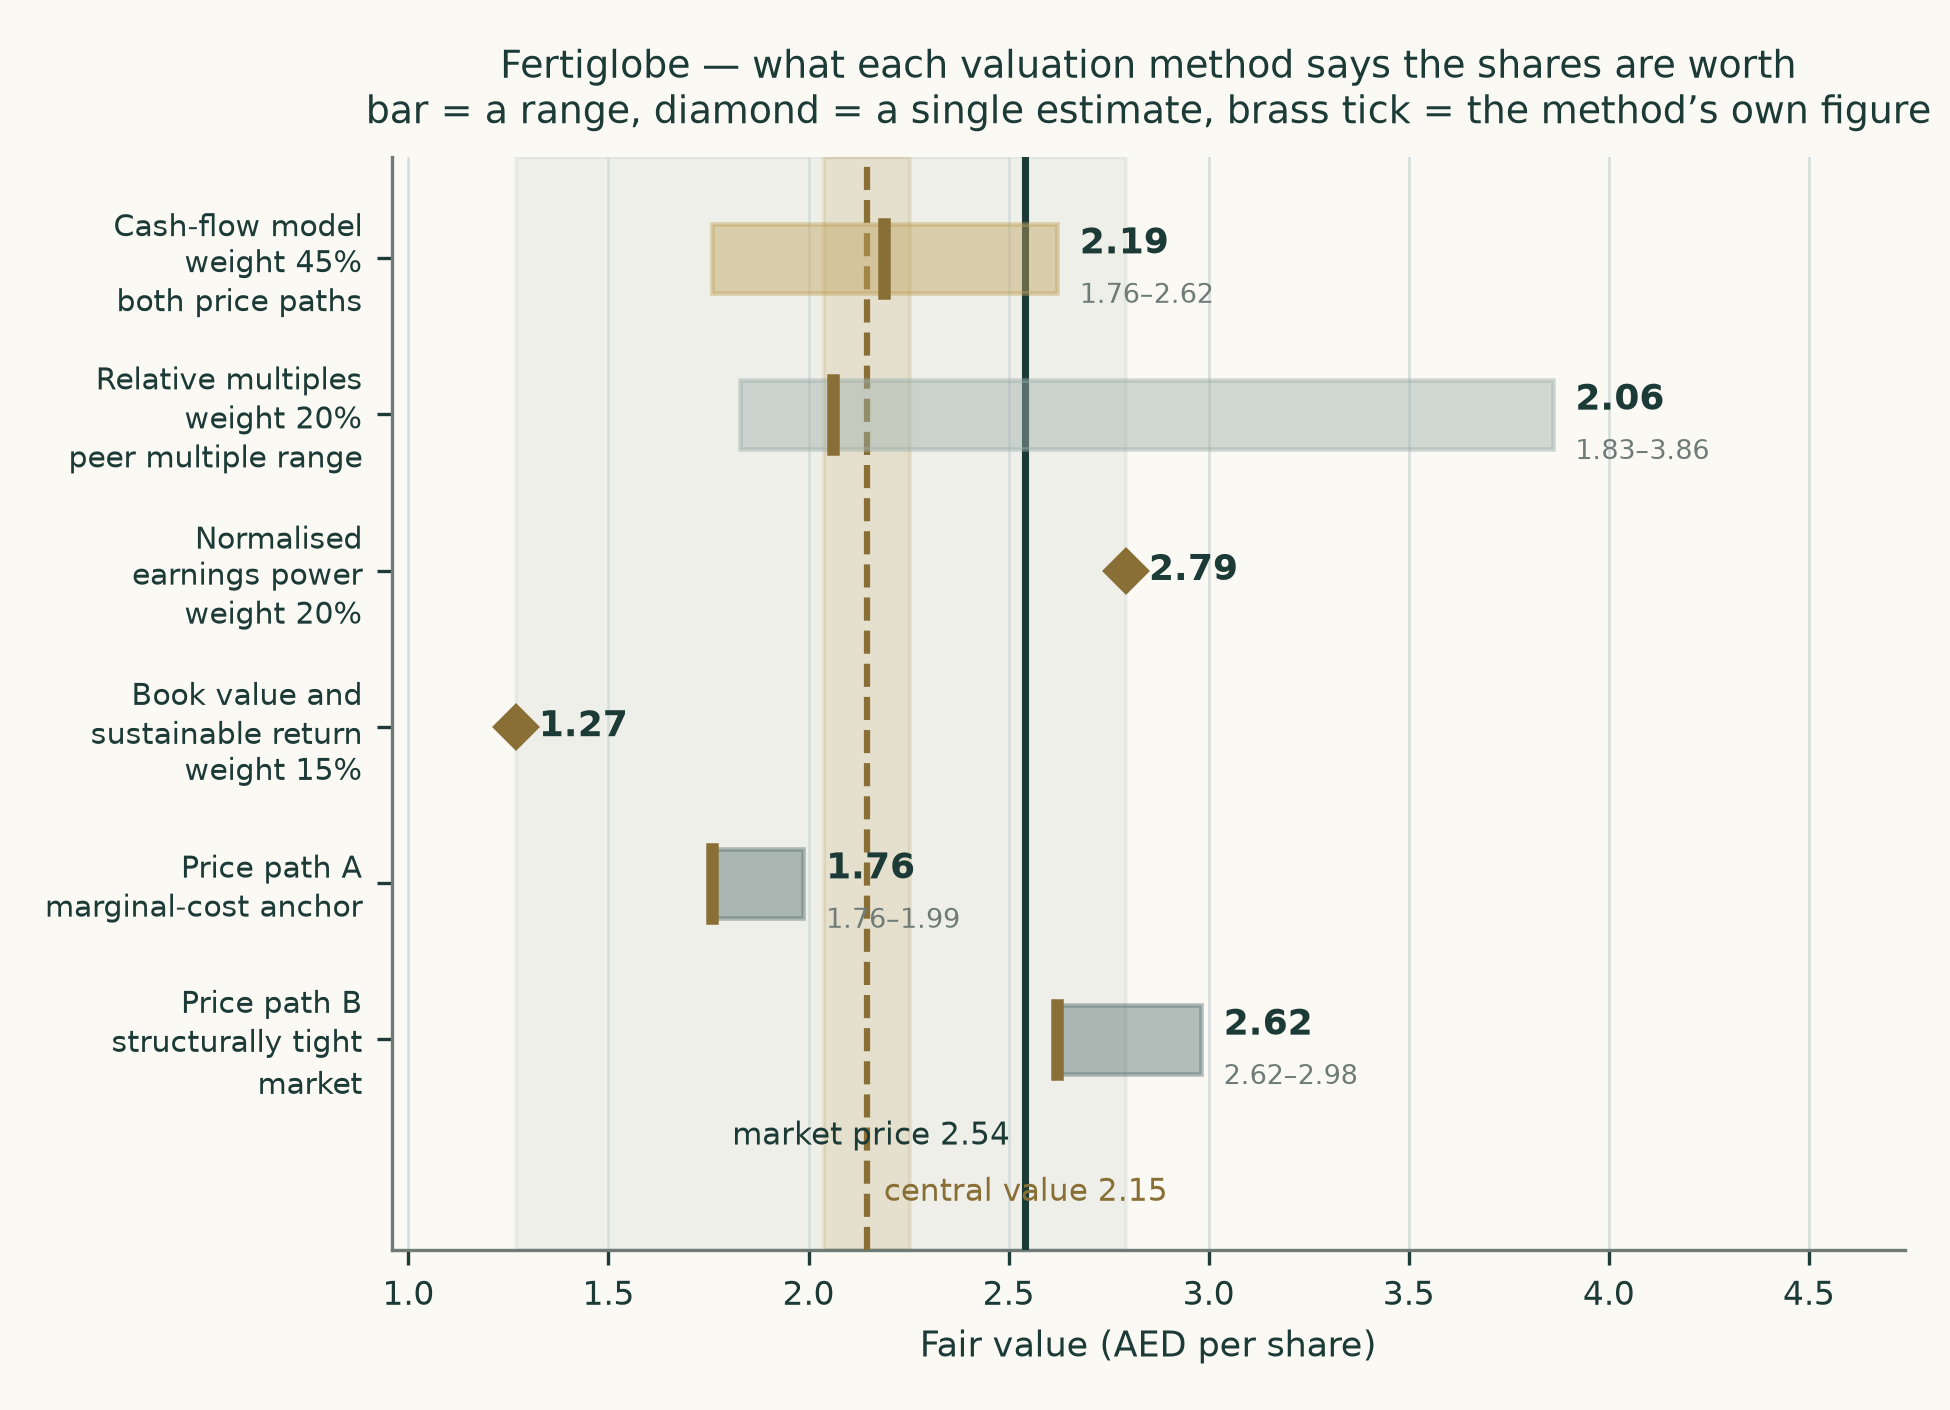
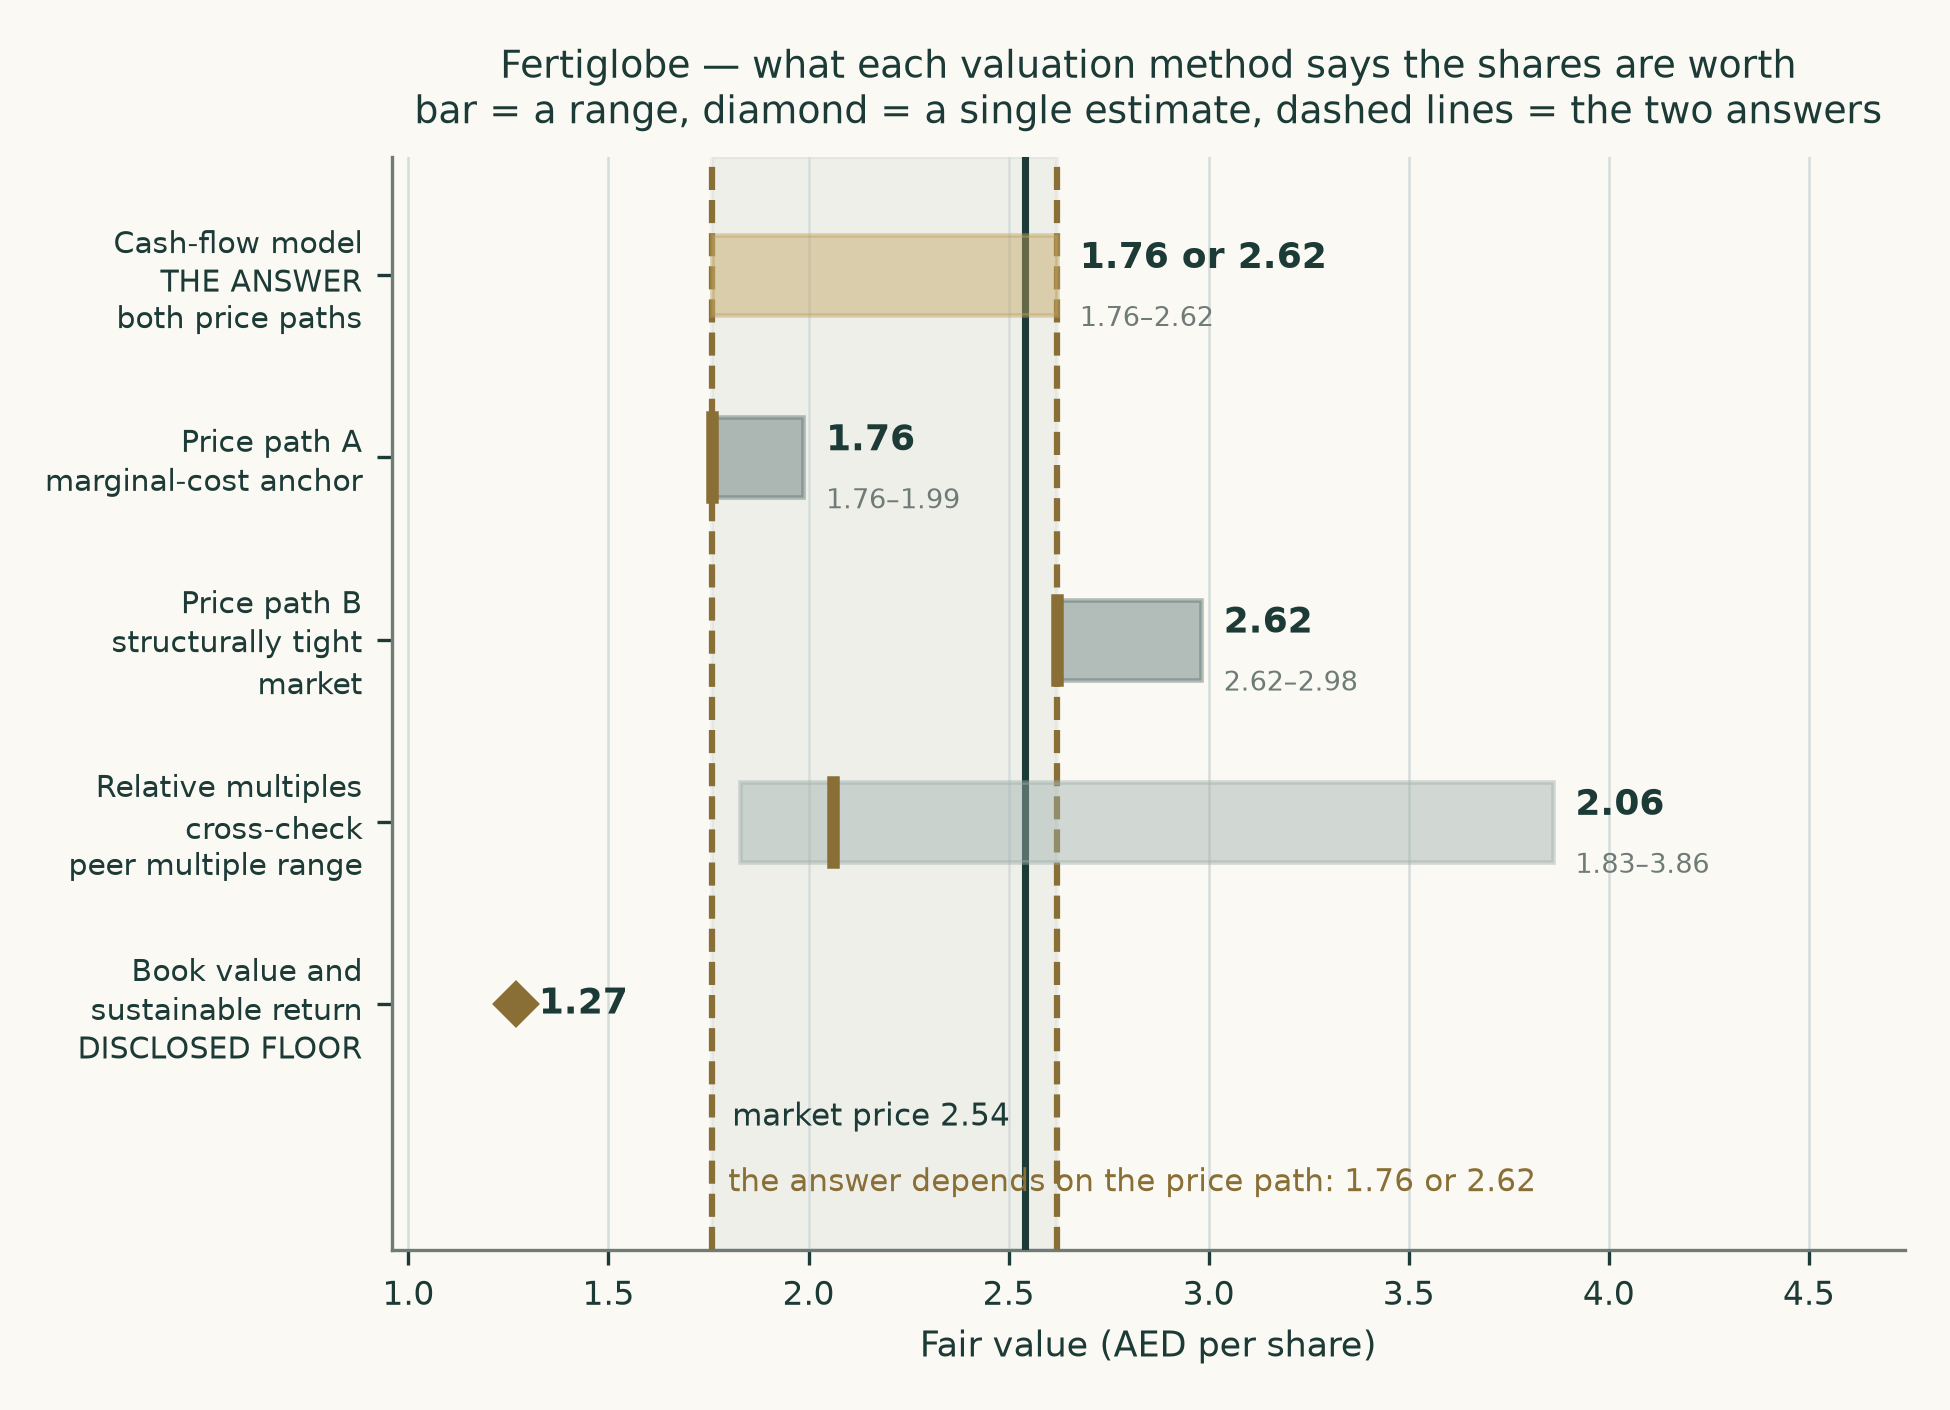
The figure drew confidence around a number nobody held
CI caught it and it was mine: changing the model left a consumer behind.
check_figure_axes reported engine/fertiglobe_study/figures.py as [NEW] — "would not
run, so its figures are UNCHECKED" — because it reads lens weights and a central
that the two-sided rebuild removed. An unrunnable figure script is not a passing
one, and the gate says so.

WHAT IT DREW IS THE MORE INTERESTING HALF. The football field shaded a plus-or-minus
5% band around the blended central and labelled it "central value". That number was
the mean of the two framings drawn directly beneath it, and neither framing asserted
it — so the figure drew a confidence interval around a point nobody held, immediately
above the two points somebody did.

Both branches are marked now and the envelope between them is the answer's own
width. The reading order follows [R-LENS-03]: the primary first as THE ANSWER, then
the two price paths behind it, then the relative multiple as a cross-check, then
book value labelled a DISCLOSED FLOOR. The weights are gone because there are none,
and the normalised-earnings row is gone because this class does not permit it.

The subtitle went with it: it promised "brass tick = the method's own figure" and
the primary row no longer has one, because its figure is two numbers rather than
one. A caption that describes a mark the picture does not carry is the same defect
one layer down.

Figure axes, lens design, prose figures and column widths all green.
[…]

diff --git a/engine/fertiglobe_study/figures.py b/engine/fertiglobe_study/figures.py
@@ -46,7 +46,13 @@ d = json.load(open(os.path.join(HERE, 'study_numbers.json')))
 strike = json.load(open(os.path.join(HERE, 'strike_result.json')))
 
 SPOT = d['spot']
-CENTRAL = d['central']
+# THE ANSWER IS TWO-SIDED, SO THERE IS NO SINGLE CENTRAL TO DRAW [R-LENS-03]. This
+# figure used to shade a +/-5% band around a blended central and label it "central
+# value". That number was the mean of the two framings below it and neither framing
+# asserted it, so the band drew confidence around a point nobody held. Both branches
+# are marked instead, and the envelope between them is the answer's own width.
+CENTRAL = d['central']                       # None on a two-sided study
+BRANCHES = (d.get('central_two_sided') or {}).get('branches') or []
 SPAN = d['span']
 CUR = d['meta']['listing_currency']
 PS = f'{CUR} per share'
@@ -96,33 +102,36 @@ assert abs(rel_ps(rel['mult']) - rel['ps_aed']) < 1e-9, 'relative-lens bridge do
 peer_mults = [p['ev_ebitda'] for p in rel['peers']]
 rel_lo, rel_hi = rel_ps(min(peer_mults)), rel_ps(max(peer_mults))
 
+# THE PRIMARY FIRST AND THE CROSS-CHECKS BENEATH IT, which is the reading order
+# [R-LENS-03] gives: one class primary IS the answer and the others stand beside it.
+# The weights are gone because there are none; the normalised-earnings lens is gone
+# because this class does not permit it and its multiple was typed.
 rows = [
-    dict(label='Cash-flow model\nweight {:.0f}%\nboth price paths'.format(L['dcf']['weight'] * 100),
-         lo=bA['ps_aed'], hi=bB['ps_aed'], base=L['dcf']['value'], kind='range', col=GOLD),
-    dict(label='Relative multiples\nweight {:.0f}%\npeer multiple range'.format(L['relative']['weight'] * 100),
-         lo=rel_lo, hi=rel_hi, base=L['relative']['value'], kind='range', col=SAGE),
-    dict(label='Normalised\nearnings power\nweight {:.0f}%'.format(L['normalized']['weight'] * 100),
-         lo=None, hi=None, base=L['normalized']['value'], kind='point', col=SAGE),
-    dict(label='Book value and\nsustainable return\nweight {:.0f}%'.format(L['book']['weight'] * 100),
-         lo=None, hi=None, base=L['book']['value'], kind='point', col=SAGE),
+    dict(label='Cash-flow model\nTHE ANSWER\nboth price paths',
+         lo=bA['ps_aed'], hi=bB['ps_aed'], base=None, kind='range', col=GOLD),
     dict(label='Price path A\nmarginal-cost anchor',
          lo=min(bA['ps_aed'], bA_cds['ps_aed']), hi=max(bA['ps_aed'], bA_cds['ps_aed']),
          base=bA['ps_aed'], kind='range', col=SLATE),
     dict(label='Price path B\nstructurally tight\nmarket',
          lo=min(bB['ps_aed'], bB_cds['ps_aed']), hi=max(bB['ps_aed'], bB_cds['ps_aed']),
          base=bB['ps_aed'], kind='range', col=SLATE),
+    dict(label='Relative multiples\ncross-check\npeer multiple range',
+         lo=rel_lo, hi=rel_hi, base=L['relative']['value'], kind='range', col=SAGE),
+    dict(label='Book value and\nsustainable return\nDISCLOSED FLOOR',
+         lo=None, hi=None, base=L['book']['value'], kind='point', col=SAGE),
 ]
 
 fig, ax = plt.subplots(figsize=(W, 4.7), dpi=DPI)
-vals = [r['base'] for r in rows] + [r['lo'] for r in rows if r['lo'] is not None] \
-    + [r['hi'] for r in rows if r['hi'] is not None] + [SPOT, CENTRAL] + list(SPAN)
+vals = [r['base'] for r in rows if r['base'] is not None] \
+    + [r['lo'] for r in rows if r['lo'] is not None] \
+    + [r['hi'] for r in rows if r['hi'] is not None] + [SPOT] + list(SPAN)
 xmin, xmax = min(vals), max(vals)
 rng = xmax - xmin
 x0, x1 = xmin - 0.12 * rng, xmax + 0.34 * rng
 
 ax.axvspan(SPAN[0], SPAN[1], color=SAGE, alpha=0.13, zorder=0)
-ax.axvspan(CENTRAL * 0.95, CENTRAL * 1.05, color=GOLD, alpha=0.20, zorder=1)
-ax.axvline(CENTRAL, color=BRASS, lw=1.5, ls='--', zorder=3)
+for _b in BRANCHES:                       # both answers, neither averaged
+    ax.axvline(_b['value'], color=BRASS, lw=1.5, ls='--', zorder=3)
 ax.axvline(SPOT, color=INK, lw=1.7, zorder=3)
 
 n = len(rows)
@@ -131,7 +140,9 @@ for i, r in enumerate(rows):
     if r['kind'] == 'range':
         ax.barh(y, r['hi'] - r['lo'], left=r['lo'], height=0.44, color=r['col'],
                 alpha=0.45, edgecolor=r['col'], linewidth=1.1, zorder=4)
-        ax.plot([r['base'], r['base']], [y - 0.22, y + 0.22], color=BRASS, lw=3.0, zorder=5)
+        if r['base'] is not None:
+            ax.plot([r['base'], r['base']], [y - 0.22, y + 0.22], color=BRASS, lw=3.0,
+                    zorder=5)
         xt = r['hi']
         sub = f"{r['lo']:.2f}–{r['hi']:.2f}"
     else:
@@ -139,7 +150,9 @@ for i, r in enumerate(rows):
                 markeredgecolor=BRASS, zorder=5)
         xt = r['base']
         sub = None
-    ax.text(xt + 0.022 * rng, y + (0.09 if sub else 0.0), f"{r['base']:.2f}", va='center',
+    _lab = (f"{r['base']:.2f}" if r['base'] is not None
+            else f"{r['lo']:.2f} or {r['hi']:.2f}")
+    ax.text(xt + 0.022 * rng, y + (0.09 if sub else 0.0), _lab, va='center',
             ha='left', fontsize=8.6, color=INK, fontweight='bold')
     if sub:
         ax.text(xt + 0.022 * rng, y - 0.24, sub, va='center', ha='left', fontsize=6.6,
@@ -147,8 +160,10 @@ for i, r in enumerate(rows):
 
 ax.text(SPOT - 0.014 * rng, -0.62, f'market price {SPOT:.2f}', color=INK, fontsize=7.4,
         ha='right', va='center')
-ax.text(CENTRAL + 0.016 * rng, -0.98, f'central value {CENTRAL:.2f}', color=BRASS,
-        fontsize=7.4, ha='left', va='center')
+ax.text(SPAN[0] + 0.016 * rng, -0.98,
+        'the answer depends on the price path: '
+        + ' or '.join(f"{b['value']:.2f}" for b in BRANCHES),
+        color=BRASS, fontsize=7.4, ha='left', va='center')
 
 ax.set_yticks(range(n))
 ax.set_yticklabels([r['label'] for r in rows][::-1], fontsize=7.2, linespacing=1.30)
@@ -156,7 +171,7 @@ ax.set_xlabel(f'Fair value ({PS})')
 ax.set_xlim(x0, x1)
 ax.set_ylim(-1.35, n - 0.35)
 ax.set_title('Fertiglobe — what each valuation method says the shares are worth\n'
-             'bar = a range, diamond = a single estimate, brass tick = the method’s own figure',
+             'bar = a range, diamond = a single estimate, dashed lines = the two answers',
              fontsize=9.0, pad=8)
 ax.grid(axis='y', visible=False)
 style(ax)
